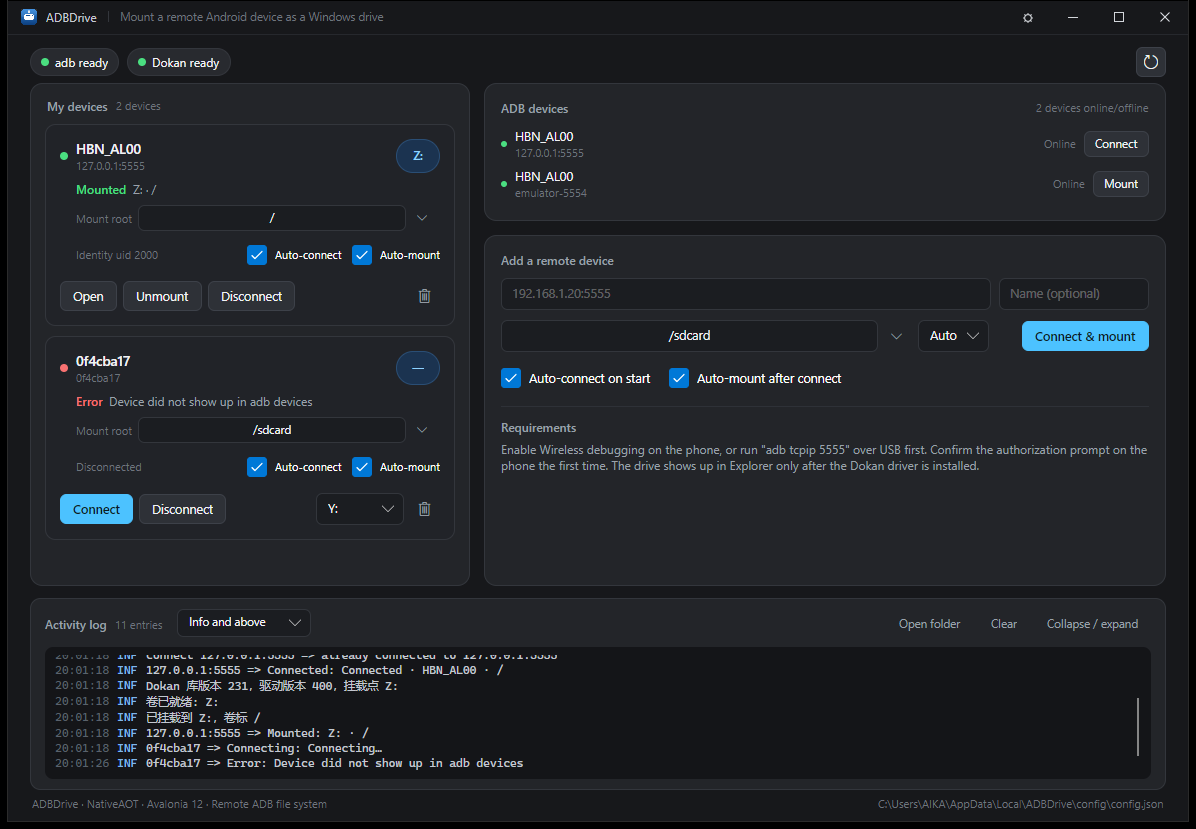
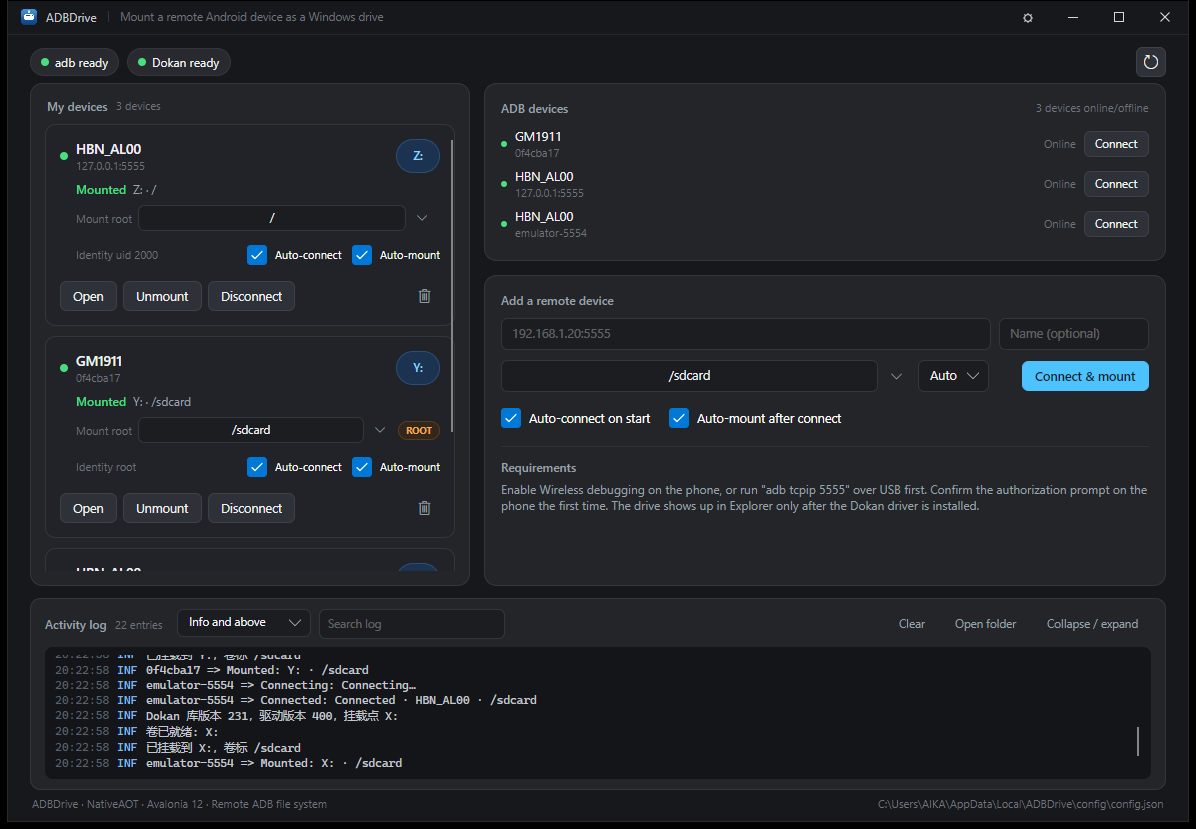
日志可选中复制，并支持搜索过滤
复制
- 日志正文换成 SelectableTextBlock，拖选后 Ctrl+C 即可复制
- 每行右键菜单（ContextFlyout）：复制此行 / 复制全部
- Ctrl+Shift+C 一键复制当前显示的所有行
- 复制内容带完整时间戳：2026-11-14 20:20:47.166 [INF] 会话: ...
- 复制成功后在日志标题栏右侧闪 2 秒「已复制 N 行」

搜索
- 日志标题栏新增搜索框，按消息 / 分类 / 级别做不区分大小写过滤，
  输入即筛，右侧 × 一键清空；计数变成「命中 N / 共 M 条」
- 无匹配时在日志区中间显示占位文案
- 清空日志时一并重置搜索词

其它
- 新增词条 logs.searchPlaceholder / searchClear / searchCount / noMatch /
  copyLine / copyAll / copied（中英各一份）
- 日志级别下拉加宽到 134（英文 "Info and above" 原来会被截断）
- README 更新日志能力说明，中英截图随之刷新

diff --git a/src/ADBDrive.App/ViewModels/MainWindowViewModel.cs b/src/ADBDrive.App/ViewModels/MainWindowViewModel.cs
@@ -30,6 +30,7 @@ public sealed partial class MainWindowViewModel : ObservableObject
 
     private readonly List<LogEntry> _logBuffer = [];
     private bool _refreshing;
+    private int _copyHintToken;
 
     [ObservableProperty]
     private string _adbStatus = string.Empty;
@@ -70,6 +71,18 @@ public sealed partial class MainWindowViewModel : ObservableObject
 
     [ObservableProperty]
     private bool _isLogVisible = true;
+
+    /// <summary>日志搜索词（按消息 / 分类 / 级别过滤，空表示不过滤）。</summary>
+    [ObservableProperty]
+    private string _logSearch = string.Empty;
+
+    /// <summary>复制成功后的短暂提示。</summary>
+    [ObservableProperty]
+    private string? _copyHint;
+
+    /// <summary>搜索无结果时显示的空状态。</summary>
+    [ObservableProperty]
+    private bool _logEmptyVisible;
 
     [ObservableProperty]
     private string _deviceCountText = string.Empty;
@@ -155,8 +168,19 @@ public sealed partial class MainWindowViewModel : ObservableObject
 
     public string ConfigDirectoryText => Path.GetDirectoryName(ConfigPathText) ?? ConfigPathText;
 
-    /// <summary>日志条数（"12 条" / "12 entries"）。</summary>
-    public string LogCountText => Loc.Count("logs.count", Logs.Count);
+    /// <summary>日志条数；有搜索词时显示「命中 / 总数」。</summary>
+    public string LogCountText
+    {
+        get
+        {
+            if (string.IsNullOrWhiteSpace(LogSearch))
+            {
+                return Loc.Count("logs.count", Logs.Count);
+            }
+
+            return Loc.F("logs.searchCount", Logs.Count, _logBuffer.Count(PassesLevel));
+        }
+    }
 
     public string VersionText =>
         "ADBDrive v" + (typeof(MainWindowViewModel).Assembly.GetName().Version?.ToString(3) ?? "1.0.0")
@@ -211,6 +235,7 @@ public sealed partial class MainWindowViewModel : ObservableObject
         OnPropertyChanged(nameof(NewDrive));
 
         OnPropertyChanged(nameof(LogCountText));
+        CopyHint = null;
 
         UpdateStatusChips();
         RefreshSessions();
@@ -369,6 +394,7 @@ public sealed partial class MainWindowViewModel : ObservableObject
         }
 
         OnPropertyChanged(nameof(LogCountText));
+        LogEmptyVisible = Logs.Count == 0 && !string.IsNullOrWhiteSpace(LogSearch);
         LogAdded?.Invoke();
     }
 
@@ -383,16 +409,56 @@ public sealed partial class MainWindowViewModel : ObservableObject
         }
 
         OnPropertyChanged(nameof(LogCountText));
+        LogEmptyVisible = Logs.Count == 0 && !string.IsNullOrWhiteSpace(LogSearch);
         LogAdded?.Invoke();
     }
 
-    private bool PassesFilter(LogEntry entry) => SelectedLogLevel?.Value switch
+    private bool PassesLevel(LogEntry entry) => SelectedLogLevel?.Value switch
     {
         LogLevelFilter.All => true,
         LogLevelFilter.Warnings => entry.Level >= LogLevel.Warn,
         LogLevelFilter.Errors => entry.Level >= LogLevel.Error,
         _ => entry.Level >= LogLevel.Info,
     };
+
+    private bool PassesFilter(LogEntry entry)
+    {
+        if (!PassesLevel(entry))
+        {
+            return false;
+        }
+
+        var term = LogSearch?.Trim();
+        if (string.IsNullOrEmpty(term))
+        {
+            return true;
+        }
+
+        return entry.Message.Contains(term, StringComparison.OrdinalIgnoreCase)
+            || entry.Category.Contains(term, StringComparison.OrdinalIgnoreCase)
+            || entry.Level.ToString().Contains(term, StringComparison.OrdinalIgnoreCase);
+    }
+
+    partial void OnLogSearchChanged(string value) => RebuildLogs();
+
+    /// <summary>把当前显示的日志拼成文本（给「复制」按钮用）。</summary>
+    public string BuildLogText() => string.Join(Environment.NewLine, Logs.Select(item => item.ToLine()));
+
+    /// <summary>复制成功后闪一下提示。</summary>
+    public void ShowCopiedHint(int lines)
+    {
+        CopyHint = Loc.Count("logs.copied", lines);
+        var token = ++_copyHintToken;
+        DispatcherTimer.RunOnce(
+            () =>
+            {
+                if (token == _copyHintToken)
+                {
+                    CopyHint = null;
+                }
+            },
+            TimeSpan.FromSeconds(2));
+    }
 
     [RelayCommand]
     private async Task RefreshAsync()
@@ -570,11 +636,16 @@ public sealed partial class MainWindowViewModel : ObservableObject
     }
 
     [RelayCommand]
+    private void ClearLogSearch() => LogSearch = string.Empty;
+
+    [RelayCommand]
     private void ClearLogs()
     {
         _logBuffer.Clear();
         Logs.Clear();
+        LogSearch = string.Empty;
         OnPropertyChanged(nameof(LogCountText));
+        LogEmptyVisible = false;
     }
 
     [RelayCommand]

diff --git a/src/ADBDrive.App/Views/MainWindow.axaml.cs b/src/ADBDrive.App/Views/MainWindow.axaml.cs
@@ -1,6 +1,7 @@
 using Avalonia;
 using Avalonia.Controls;
 using Avalonia.Input;
+using Avalonia.Input.Platform;
 using Avalonia.Interactivity;
 using Avalonia.Media;
 using Avalonia.Threading;
@@ -98,6 +99,53 @@ public partial class MainWindow : Window
         if (_viewModel is not null)
         {
             _viewModel.LogAdded += OnLogAdded;
+        }
+    }
+
+    // ===== 日志复制 =====
+
+    private async void OnCopyLogLineClick(object? sender, RoutedEventArgs e)
+    {
+        // Flyout 的 DataContext 继承自所属的日志行。
+        if (sender is MenuItem { DataContext: LogItemViewModel item })
+        {
+            await CopyTextAsync(item.ToLine(), 1);
+        }
+    }
+
+    private async void OnCopyLogsClick(object? sender, RoutedEventArgs e) => await CopyLogsAsync();
+
+    private async Task CopyLogsAsync()
+    {
+        if (_viewModel is not { } viewModel)
+        {
+            return;
+        }
+
+        var text = viewModel.BuildLogText();
+        if (string.IsNullOrEmpty(text))
+        {
+            return;
+        }
+
+        await CopyTextAsync(text, viewModel.Logs.Count);
+    }
+
+    private async Task CopyTextAsync(string text, int lines)
+    {
+        if (Clipboard is not { } clipboard)
+        {
+            return;
+        }
+
+        try
+        {
+            await clipboard.SetTextAsync(text);
+            _viewModel?.ShowCopiedHint(lines);
+        }
+        catch (Exception ex)
+        {
+            App.Host.Log.Warn("界面", $"复制到剪贴板失败: {ex.Message}");
         }
     }
 

diff --git a/src/ADBDrive.Core/Localization/StringTables.cs b/src/ADBDrive.Core/Localization/StringTables.cs
@@ -113,6 +113,14 @@ internal static class StringTables
         ["logs.level.all"] = "全部",
         ["logs.level.warn"] = "仅警告",
         ["logs.level.error"] = "仅错误",
+        ["logs.searchPlaceholder"] = "搜索日志",
+        ["logs.searchClear"] = "清除搜索",
+        ["logs.searchCount"] = "命中 {0} / 共 {1} 条",
+        ["logs.noMatch"] = "没有匹配的日志",
+        ["logs.copyLine"] = "复制此行",
+        ["logs.copyAll"] = "复制全部",
+        ["logs.copied"] = "已复制 {0} 行",
+        ["logs.copied.one"] = "已复制 1 行",
 
         // ===== 盘符 =====
         ["drive.auto"] = "自动",
@@ -287,6 +295,14 @@ internal static class StringTables
         ["logs.level.all"] = "Everything",
         ["logs.level.warn"] = "Warnings only",
         ["logs.level.error"] = "Errors only",
+        ["logs.searchPlaceholder"] = "Search log",
+        ["logs.searchClear"] = "Clear search",
+        ["logs.searchCount"] = "{0} of {1} matching",
+        ["logs.noMatch"] = "No matching entries",
+        ["logs.copyLine"] = "Copy this line",
+        ["logs.copyAll"] = "Copy all",
+        ["logs.copied"] = "Copied {0} lines",
+        ["logs.copied.one"] = "Copied 1 line",
 
         // ===== drive letters =====
         ["drive.auto"] = "Auto",

diff --git a/src/ADBDrive.App/ViewModels/LogItemViewModel.cs b/src/ADBDrive.App/ViewModels/LogItemViewModel.cs
@@ -47,6 +47,13 @@ public sealed class LogItemViewModel
     public IBrush LevelBrush { get; }
 
     public string Tooltip => $"{Timestamp:yyyy-MM-dd HH:mm:ss.fff} [{LevelText}] {Category}";
+
+    /// <summary>复制到剪贴板时的整行文本（带完整时间戳）。</summary>
+    public string ToLine()
+    {
+        var category = string.IsNullOrWhiteSpace(Category) ? string.Empty : Category + ": ";
+        return $"{Timestamp:yyyy-MM-dd HH:mm:ss.fff} [{LevelText}] {category}{Message}";
+    }
 }
 
 /// <summary>adb devices 里发现但尚未保存的设备。</summary>

diff --git a/README.md b/README.md
@@ -28,7 +28,7 @@ USB 连接时 Windows 原生 MTP 就能看到手机文件；但 `adb connect <ip
 | 断线降级 | 设备离线时操作**立即**失败（不卡资源管理器），后台按退避策略自动重连 |
 | 缓存 | 目录列表 / 元数据 TTL 缓存，显著减少 ADB 往返 |
 | 配置持久化 | 设备地址、挂载根、盘符偏好、自动连接/自动挂载；卡片上改完即时存盘，无需重新添加设备 |
-| 日志 | 界面实时日志 + 按天滚动文件，便于排查 ADB 交互 |
+| 日志 | 界面实时日志 + 按天滚动文件；文本可拖选复制（Ctrl+C），右键可「复制此行 / 复制全部」，Ctrl+Shift+C 一键复制全部；支持关键字搜索过滤（按消息 / 分类 / 级别匹配） |
 | 标题栏 | 自定义标题栏：图标 + 名称 + 副标题，右侧「设置 / 最小化 / 最大化 / 关闭」；双击标题栏最大/还原，拖动跟随 |
 | 设置面板 | 标题栏齿轮里可改「关闭窗口收进托盘」「启动时最小化」「界面语言」，并可打开配置 / 日志目录 |
 | 多语言 | 简体中文 / English，默认跟随系统语言；切换**立即生效**（含已显示的设备状态文案），无需重启 |
